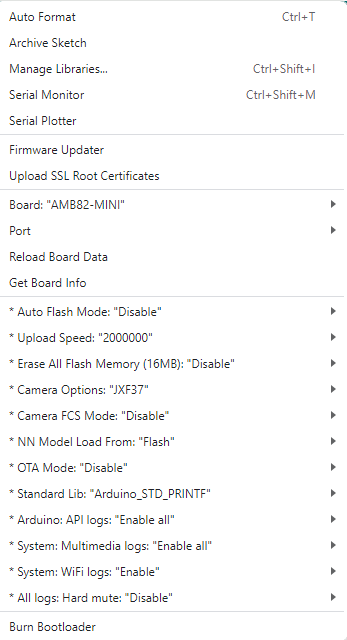
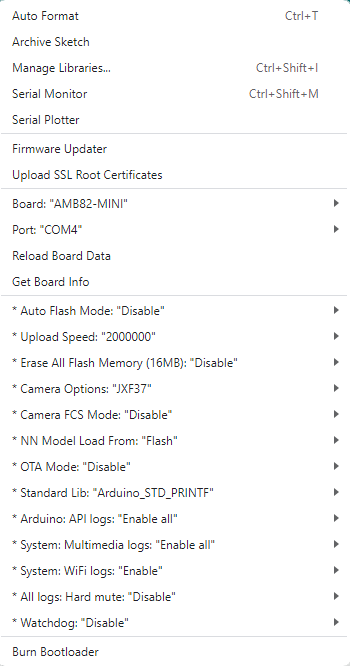
Add WDT
- Update with WDT option in getting started
- Add WDT FAQ

diff --git a/source/ameba_pro2/amb82-mini/Getting_Started/Getting Started with Ameba.rst b/source/ameba_pro2/amb82-mini/Getting_Started/Getting Started with Ameba.rst
@@ -243,6 +243,10 @@ There are many different Modes for user to select for different settings of comp
 |                                  | | **Enable** - Completely disables all logs, including printf. Not recommended if you   |             |
 |                                  | | still need debugging capabilities.                                                    |             |
 +----------------------------------+-----------------------------------------------------------------------------------------+-------------+
+| \* Watchdog                      | | **Disable** - Turn off the watchdog function.                                         |             |
+|                                  | |                                                                                       |             |
+|                                  | | **Enable** - Activate watchdog function                                               |             |
++----------------------------------+-----------------------------------------------------------------------------------------+-------------+
 
 Step 2. Compile
 ~~~~~~~~~~~~~~~
@@ -344,8 +348,8 @@ Useful Links
    :width:  773 px
    :height:  600 px
 .. |image09| image:: ../../../_static/amebapro2/Getting_Started/Getting_Started_with_AMB82-mini/image09.png
-   :width:  347 px
-   :height:  640 px
+   :width:  350 px
+   :height:  666 px
 .. |image10| image:: ../../../_static/amebapro2/Getting_Started/Getting_Started_with_AMB82-mini/image10.png
    :width:  555 px
    :height:  605 px

diff --git a/source/FAQ/watchdog_option.rst b/source/FAQ/watchdog_option.rst
@@ -1,0 +1,25 @@
+.. tags:: amb82-mini, watchdog timer
+
+Can the system automatically reset if the program hangs?
+========================================================
+
+**Answer**
+
+The system can automatically reset using the watchdog timer (WDT).
+
+When enabled, the watchdog continuously monitors the main loop and ensures it remains responsive.
+
+You can enable or disable the watchdog in the Arduino IDE under **Tools → Watchdog**.
+
+Please refer to `AMB82 Mini Getting Started - Selection Ameba Modes <https://ameba-doc-arduino-sdk.readthedocs-hosted.com/en/latest/ameba_pro2/amb82-mini/Getting_Started/Getting%20Started%20with%20Ameba.html#step-1-selection-ameba-modes>`_
+
+If the program hangs and stops updating for too long (beyond **LOOP_TIMEOUT_MS**, e.g. 1.5 s), the watchdog stops refreshing.  
+After the set timeout period (**WDT_TIMEOUT_MS**, e.g. 10 s), the watchdog triggers a system reset.
+
+Watchdog timing parameters can be modified in: cores/ambpro2/Arduino.h
+
+- WDT_TIMEOUT_MS: Time before system reset if not refreshed.
+
+- WDT_PERIOD_MS: How often the watchdog checks system health.
+
+- LOOP_TIMEOUT_MS: Max time allowed since last loop update.

diff --git a/source/FAQ/index.rst b/source/FAQ/index.rst
@@ -58,3 +58,5 @@ Ameba FAQ
    use_of_multitask
 
    RTSP_streaming_calibrations
+
+   watchdog_option
